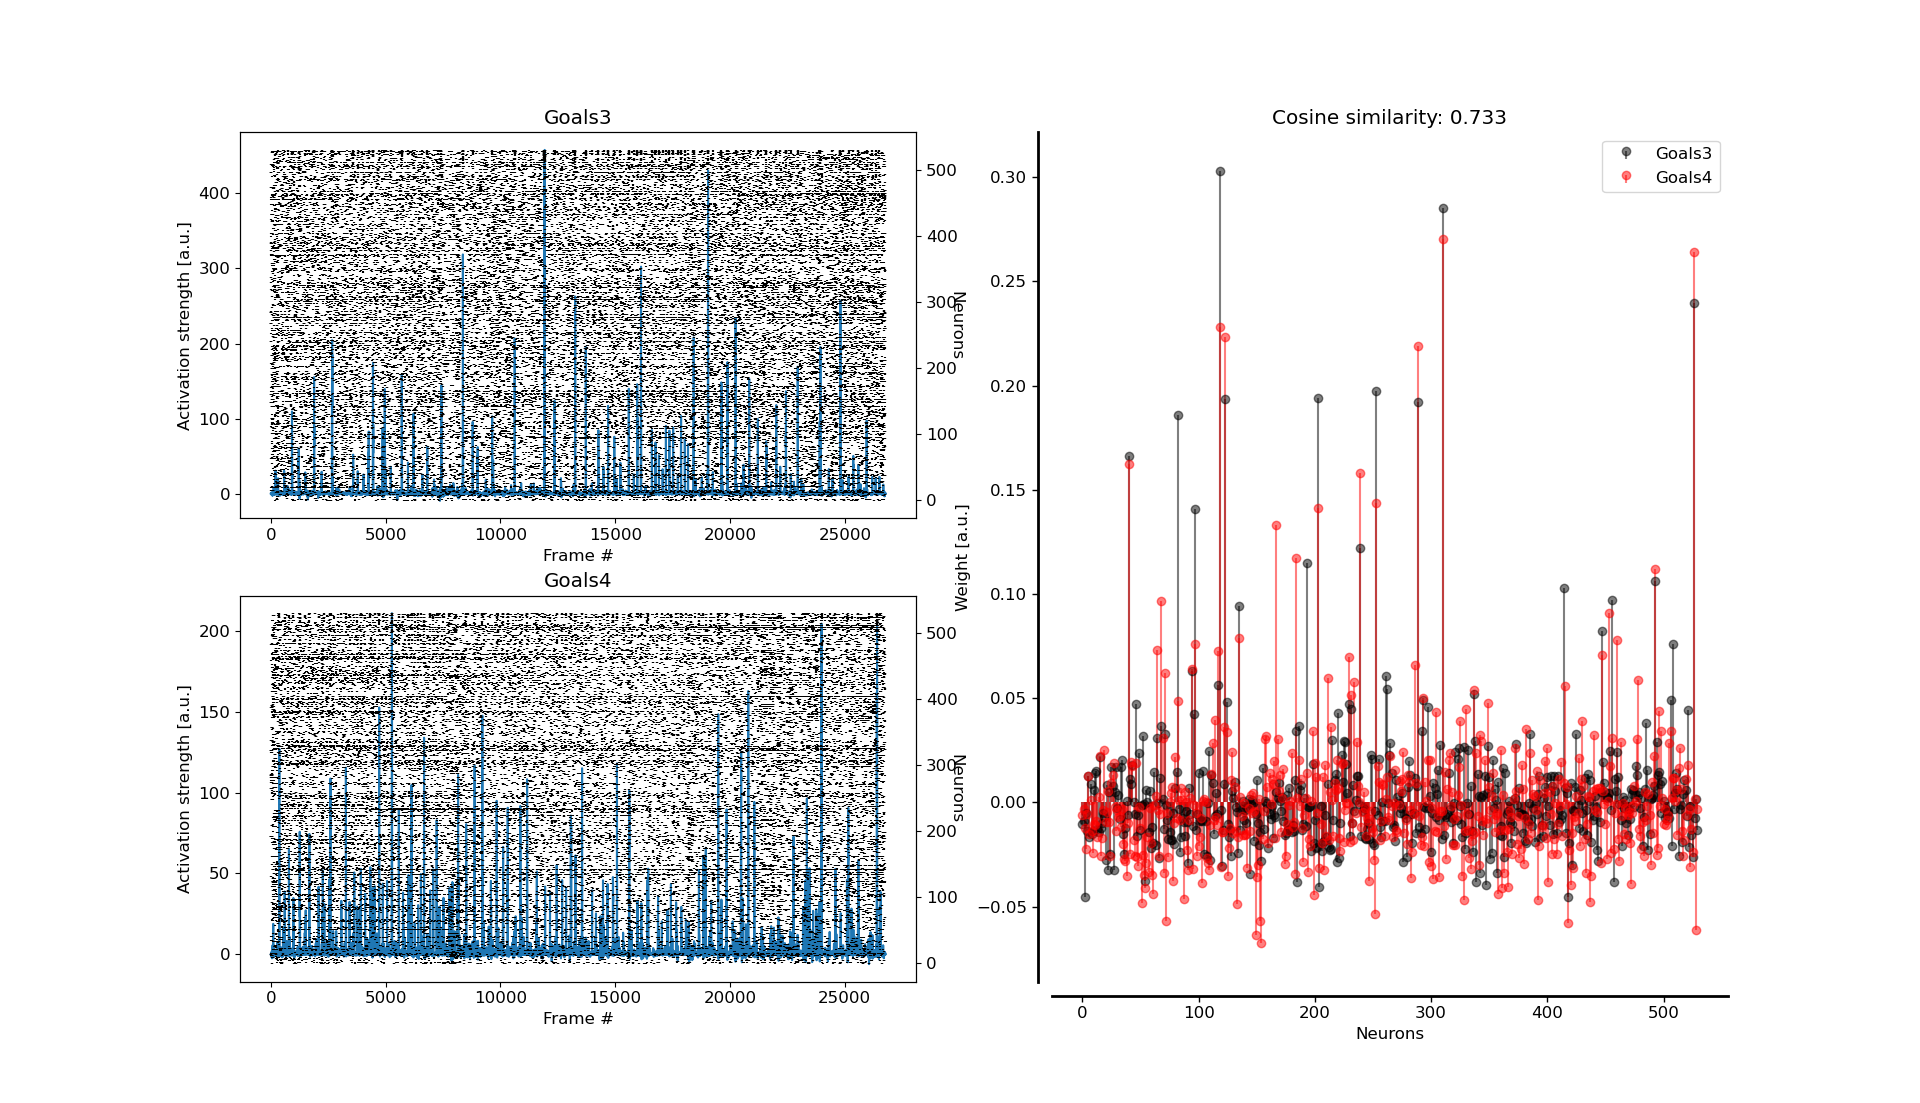
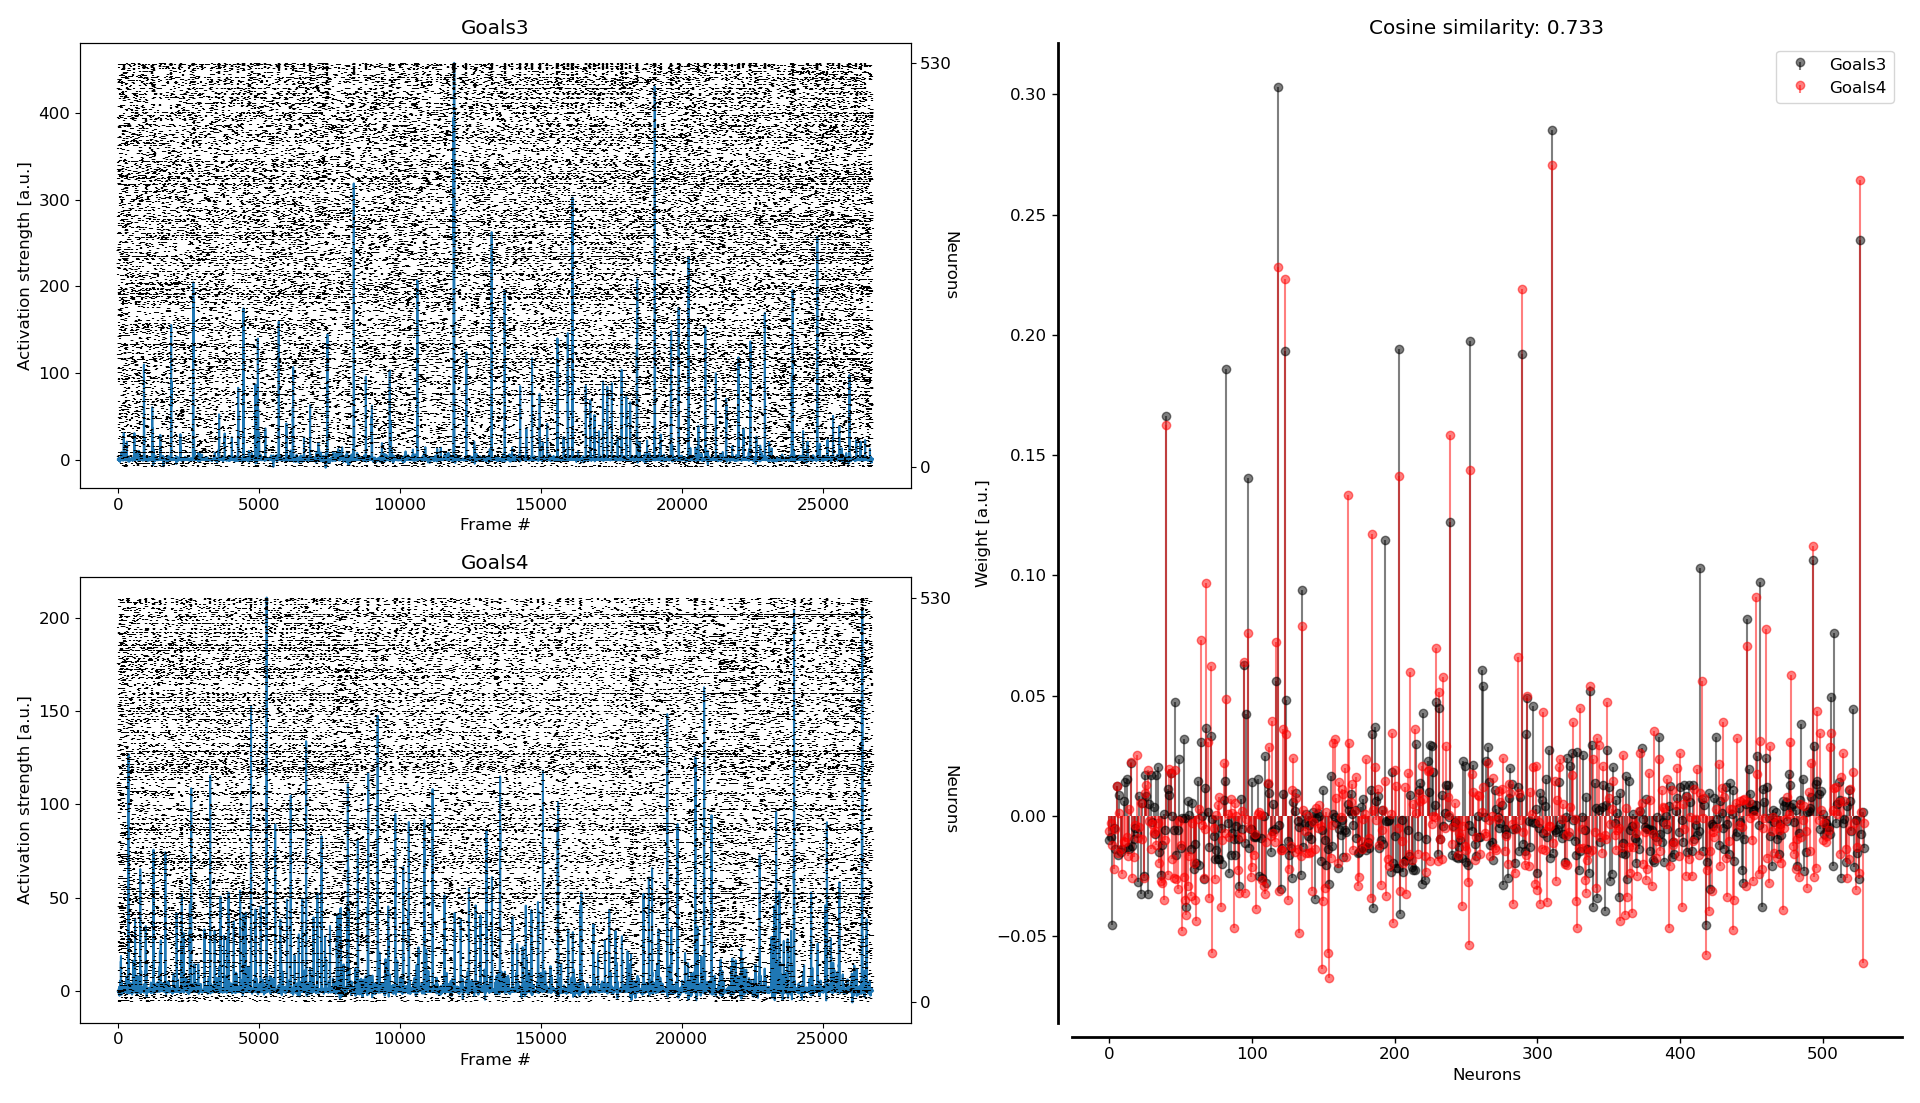
fig aesthetics

diff --git a/CircleTrack/scripts.py b/CircleTrack/scripts.py
@@ -1176,7 +1176,9 @@ class ProjectAnalyses:
             pattern_ax.set_xlabel('Neurons')
             pattern_ax.legend(session_types)
             pattern_ax.set_title(f'Cosine similarity: {np.round(similarity, 3)}')
+            pattern_ax.set_xticks([0, patterns[0].shape[0]])
             pattern_ax = beautify_ax(pattern_ax)
+            plt.gcf().tight_layout()
 
     def spiralplot_matched_assemblies(self, mouse, session_types: tuple, thresh=1):
         # Match assemblies.

diff --git a/CircleTrack/Assemblies.py b/CircleTrack/Assemblies.py
@@ -64,6 +64,7 @@ def plot_assembly(
     activation_ax.set_xlabel("Frame #")
     spikes_ax.eventplot(sorted_spike_times, color="k")
     spikes_ax.set_ylabel("Neurons", rotation=-90)
+    spikes_ax.set_yticks([0, len(sorted_spike_times)])
 
     return activation_ax, spikes_ax
 
